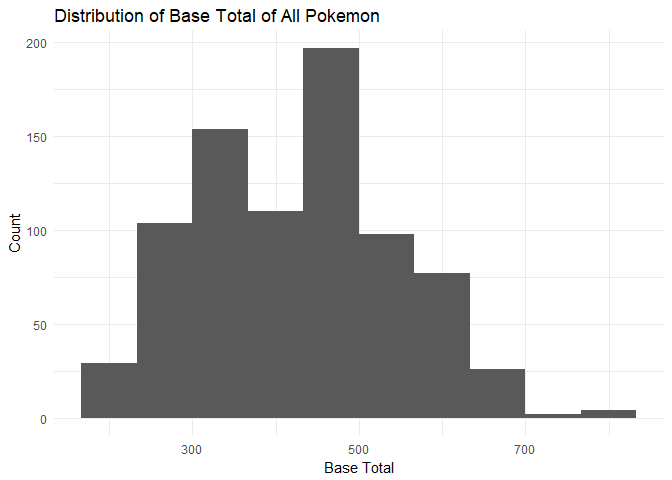
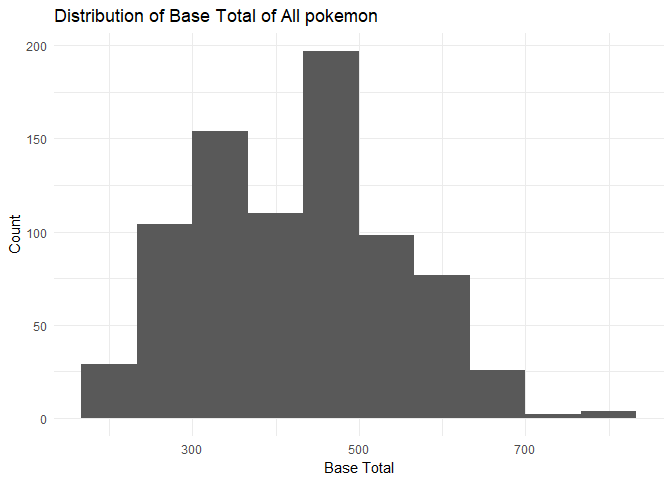
Edited report text

diff --git a/classify_legenday_pokemon_report.md b/classify_legenday_pokemon_report.md
@@ -1,4 +1,4 @@
-Classifying Legendary Pokemon
+Classifying Legendary pokemon
 ================
 Hubert Luo
 May 19, 2018
@@ -11,24 +11,24 @@ library(ggplot2)
 Introduction
 ------------
 
-A legendary Pokemon is a rare Pokemon that has a number of distinguishing features - it is usually powerful, hard to capture, and gains experience slowly. With these factors in mind, we develop a classifier to predict whether a given Pokemon is legendary or not.
+A legendary Pokémon is a rare Pokémon that has a number of distinguishing features - it is usually powerful, hard to capture, and gains experience slowly. With these factors in mind, we develop a classifier to predict whether a given Pokémon is legendary or not.
 
 Cleaning Data
 -------------
 
-The data used consists of all 801 Pokemon from the National Pokedex (Generations I-VII) consisted of 6 variables:
+The data used consists of all 801 Pokémon from the National Pokédex (Generations I-VII) consisted of 6 variables:
 
--   **Name of Pokemon:** String vector of English name of Pokemon
--   **Pokedex Number:** Unique number between 1 and 801 inclusive for each Pokemon
--   **Base Total:** Number that measures how powerful we consider a Pokemon to be. It is the sum of a Pokemon's HP, Attack, Special Attack, Defense, Special Defense, and Speed ratings so Pokemon with higher base totals are mmore powerful. The base total ranges from 180 to 780, with most legendary pokemon having high base totals of at least 600
--   **Captue Rate:** Number that measures how difficult it is to catch a Pokemon, Pokemon with higher capture rates are easier to capture. The Capture Rate ranges from 3 to 255, with most legendary pokemon having low capture rates of less than 5.
--   **Experience Growth:** Number that contains the number of experience points a Pokemon will have at level 100, so those with higher values of experience growth will level up slower. Most legendary pokemon gain experience slowly and will have about 1.25 million experience points at level 100.
--   **Legendary:** A binary number that states whether a Pokemon is legendary or not. 0 means a Pokemon is not legendary, while a 1 means a Pokemon is legendary. This is used when training the data and to evaluate the accuracy of our model on our testing data.
+1.  **Name of Pokémon:** String vector of English name of Pokémon
+2.  **Pokédex Number:** Unique number between 1 and 801 inclusive for each Pokémon
+3.  **Base Total:** Number that measures how powerful we consider a Pokémon to be. It is the sum of a Pokémon's HP, Attack, Special Attack, Defense, Special Defense, and Speed ratings so Pokémon with higher base totals are more powerful. The base total ranges from 180 to 780, with most legendary Pokémon having high base totals of at least 600
+4.  **Capture Rate:** Number that measures how difficult it is to catch a Pokémon, Pokémon with higher capture rates are easier to capture. The Capture Rate ranges from 3 to 255, with most legendary Pokémon having low capture rates of less than 5.
+5.  **Experience Growth:** Number that contains the number of experience points a Pokémon will have at level 100, so those with higher values of experience growth will level up slower. Most legendary Pokémon gain experience slowly and will have about 1.25 million experience points at level 100.
+6.  **Legendary:** A binary number that states whether a Pokémon is legendary or not. 0 means a Pokémon is not legendary, while a 1 means a Pokémon is legendary. This is used when training the data and to evaluate the accuracy of our model on our testing data.
 
-The first 3 rows of the original data are displayed below, with a histogram of the distribution of the base total among all Pokemon.
+The first 3 rows of the original data are displayed below, with a histogram of the distribution of the base total among all Pokémon.
 
 ``` r
-pokemon = read.csv('pokemon.csv', stringsAsFactors = FALSE)
+pokemon = read.csv('Pokemon.csv', stringsAsFactors = FALSE)
 pokemon = pokemon %>% select(name, pokedex_number, base_total, capture_rate, experience_growth, is_legendary)
 non_standardized_pokemon = pokemon
 
@@ -47,7 +47,7 @@ head(non_standardized_pokemon, 3)
 ``` r
 ggplot(data = non_standardized_pokemon) +
   geom_histogram(aes(x = base_total), bins = 10) + 
-  ggtitle('Distribution of Base Total of All Pokemon') + 
+  ggtitle('Distribution of Base Total of All pokemon') + 
   labs(x = 'Base Total', y = 'Count') +
   theme_minimal()
 ```
@@ -76,13 +76,13 @@ head(pokemon, 3)
     ## 2            0
     ## 3            0
 
-Because Minior (Pokedex Number 774) has different capture rates of 30 in meteorite form and 255 in core form, we decided to remove it from the dataset (note that it's capture rate is a missing value in the dataset)
+Because Minior (Pokédex Number 774) has different capture rates of 30 in meteorite form and 255 in core form, we decided to remove it from the dataset (note that it's capture rate is a missing value in the dataset)
 
 ``` r
 pokemon = pokemon %>% filter(!is.na(capture_rate))
 ```
 
-Then, we randomly divide the data into testing and training sets using a 80-20 split, with 80% of the data going in the training set and 20% in the testing set. The following shows the first 3 rows of the training and test sets respectively.
+Then, we randomly divide the data into testing and training sets using an 80-20 split, with 80% of the data going in the training set and 20% in the testing set. The following shows the first 3 rows of the training and test sets respectively.
 
 ``` r
 n = nrow(pokemon)
@@ -129,7 +129,7 @@ In order to evaluate how similar two data points are across the three features o
 
 ``` r
 #' @title distance
-#' @description Find distance between two points (Pokemon) in 3 features
+#' @description Find distance between two points (pokemon) in 3 features
 #' @param train_row A row in the training set
 #' @param test_row A row in the testing set
 #' @return The Euclidian distance between the two points in the 3 features selected
@@ -142,20 +142,20 @@ distance <- function(train_row = training[1,], test_row = testing[1,]){
 }
 ```
 
-Finally, we will find the 3 closest points in the training set to a given Pokemon in the testing set and see whether the majority of them are legendary pokemon or not. If the majority of its 3 nearest neighbours are legendary, then we will predict the Pokemon will be legendary, and similiar for not legendary.
+Finally, we will find the 3 closest points in the training set to a given Pokémon in the testing set and see whether the majority of them are legendary Pokémon or not. If the majority of its 3 nearest neighbours are legendary, then we will predict the Pokémon will be legendary, and similar for not legendary.
 
 ``` r
 #' @title classify
-#' @description Predict whether a Pokemon in the testing set will be legendary or not by looking at its 3 nearest neighbours in the training set
+#' @description Predict whether a pokemon in the testing set will be legendary or not by looking at its 3 nearest neighbours in the training set
 #' @param x A row in the testing set to predict
-#' @return Whether a Pokemon is predicted to be legendary (1) or not (0)
+#' @return Whether a pokemon is predicted to be legendary (1) or not (0)
 classify <- function(x){
   closest = training %>% mutate('Distance' = distance(training, x)) %>% arrange(Distance) %>% slice(1:3) # Select 3 closest pokemon in training set
   names(which.max(table(closest$is_legendary)))
 }
 ```
 
-For example, we can correctly predict that Mew, a Pokemon in the testing set, is legendary.
+For example, we can correctly predict that Mew, a Pokémon in the testing set, is legendary.
 
 ``` r
 classify(testing[testing$name=='Mew',])
@@ -163,7 +163,7 @@ classify(testing[testing$name=='Mew',])
 
     ## [1] "1"
 
-Finally, we apply our function to all the Pokemon in the testing set as follows in the dataframe predicted\_testing
+Finally, we apply our function to all the Pokémon in the testing set as follows in the dataframe predicted\_testing below.
 
 ``` r
 predicted_class = numeric()
@@ -173,7 +173,7 @@ for(i in 1:nrow(testing)){
 predicted_testing = testing %>% mutate('predicted_legendary' = predicted_class) 
 ```
 
-The accuracy of our model can be determined by seeing how many of the Pokemon in the dataframe have the same predicted and actual legendary status.
+The accuracy of our model can be determined by seeing how many of the Pokémon in the dataframe have the same predicted and actual legendary status.
 
 ``` r
 accuracy = sum(predicted_testing$is_legendary == predicted_testing$predicted_legendary)/nrow(predicted_testing)
@@ -182,4 +182,4 @@ accuracy
 
     ## [1] 0.9875
 
-Note that this again **only** contains the Pokemon in the testing set - if we include the Pokemon in the training set, we get an artificially inflated accuracy measurement as Pokemon in the training set will be more likely to be predicted correctly as there already is one point (itself) among its closest neighbours!
+Note that this accuracy **only** accounts for Pokémon in the testing set - if we include the Pokémon in the training set, we get an inflated accuracy as Pokémon in the training set will be more likely to be predicted correctly as there automatically is one correct point (itself) among its closest neighbours!
